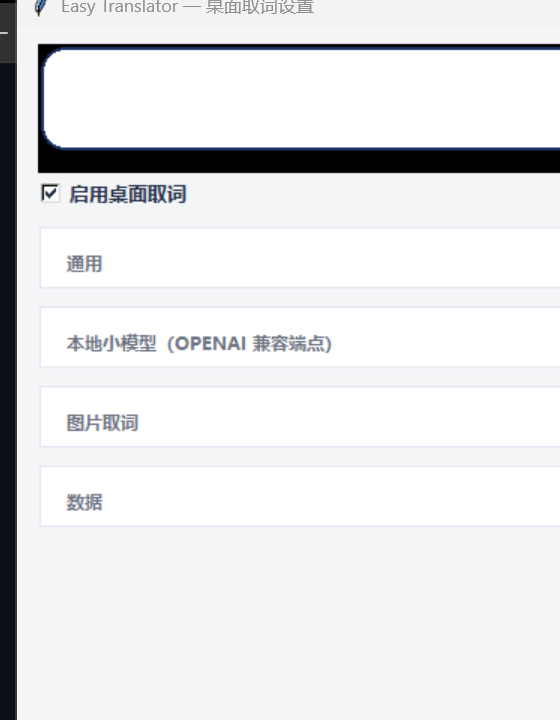
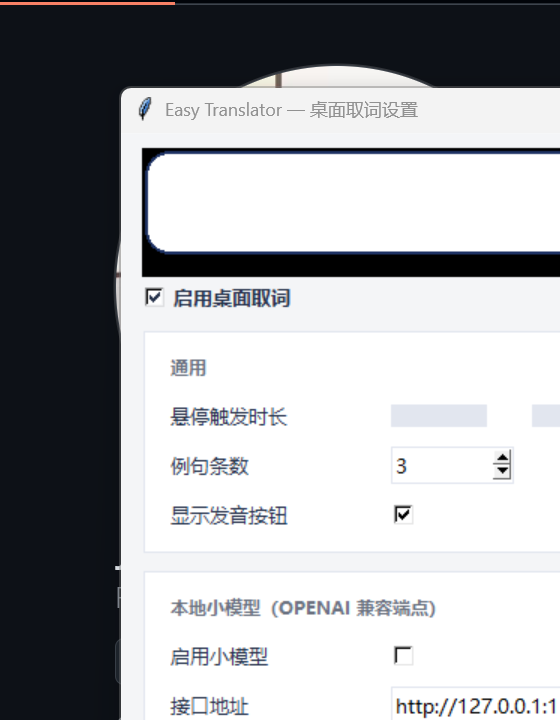
fix(desktop): 设置窗口缺一整张卡（用户报「用不了」）；run.ps1 透传参数
用户：「给我电脑更新到最新版，我怎么用不了」。定位到两个真 bug：

1. **设置窗口最后一张卡的字段根本没显示** —— settings_ui._card() 返回的行容器从未 pack；
   且内容约 850px 高、窗口只有 696px，Tk 的 pack 在分不到空间时**直接不映射控件**
   （不只是"看不见"，是 winfo_ismapped()==False）。表现就是「打开设置、缺一整张卡、用不了」。
   修法：① 行容器补 pack ② 内容区做成可滚动（Canvas + Scrollbar + 滚轮），
   窗口再矮也不丢字段。
2. **run.ps1 不透传参数** —— 只认 --selftest，我文档里承诺的 run.ps1 --settings 被静默丢掉。
   改为 `& $py -m et_desktop @args` 全量透传。

## 测试盲区（这次的教训）

test_window_constructs_with_all_fields 只查了「标签文本存在」，标签在未 pack 的容器里也存在
—— 正好漏掉这种整片字段缺失。已补**可见性断言**（winfo_ismapped 必须为真、字段数 ≥12），
并注意顺序：映射状态要等 update() 之后才准（先遍历会整片报 unmapped，那是测试自己的坑）。
排查中用「祖先链映射状态 + 几何」打到失败细节里，一眼看出是 pack 分不到空间。

验证：desktop/tests/test_settings.py 8/8（15 个字段全部映射）；check:ui 19/19
（设置窗口真机出图 560x720、藏青 468 / 纯白 42170）；桌面单测 14/14、同构 8/8、自检通过。

diff --git a/desktop/tests/test_settings.py b/desktop/tests/test_settings.py
@@ -103,6 +103,38 @@ class TestSettingsWindow(unittest.TestCase):
         for want in ["通用", "本地小模型（OPENAI 兼容端点）", "图片取词", "数据",
                      "悬停触发时长", "例句条数", "接口地址", "文本模型", "视觉模型", "超时（毫秒）"]:
             self.assertTrue(any(want in s for s in labels), f"设置窗口缺少「{want}」")
+
+        # 关键：字段必须**可见**（winfo_ismapped）。只查标签文本会漏掉
+        # 「行容器忘了 pack」——那种情况标签存在但整片字段看不见。
+        # 注意顺序：映射状态要等 update() 之后才准（先遍历会整片报 unmapped）。
+        win.deiconify()
+        win.update_idletasks()
+        win.update()
+        visible = []
+
+        def walk_mapped(w):
+            for c in w.winfo_children():
+                if isinstance(c, (tk.Entry, tk.Checkbutton, tk.Scale, tk.Spinbox)):
+                    visible.append((type(c).__name__, bool(c.winfo_ismapped())))
+                walk_mapped(c)
+        walk_mapped(win)
+        invisible = [t for t, m in visible if not m]
+        self.assertGreaterEqual(len(visible), 12, f"字段控件太少：{visible}")
+
+        def chain(w):
+            out = []
+            while w is not None and str(w) != str(win):
+                try:
+                    out.append(f"{w.winfo_class()}{'M' if w.winfo_ismapped() else 'U'}"
+                               f"[{w.winfo_width()}x{w.winfo_height()}]")
+                except Exception:
+                    break
+                w = w.master
+            return " ← ".join(out)
+        dbg = [chain(c) for c in win.winfo_children()
+               if isinstance(c, tk.Frame)] if invisible else []
+        self.assertEqual([], invisible,
+                         f"这些字段没显示出来（容器忘了 pack？）：{invisible}\n祖先链：{dbg[:3]}")
         win.destroy()
         root.destroy()
 

diff --git a/desktop/et_desktop/settings_ui.py b/desktop/et_desktop/settings_ui.py
@@ -94,10 +94,22 @@ class SettingsWindow(tk.Toplevel if tk else object):
         self.status_lbl.pack(side="right")
 
         # —— 四张卡，与 options/options.html 同序 ——
-        body = tk.Frame(outer, bg=BG)
-        body.pack(fill="both", expand=True)
-        self._cards = tk.Frame(body, bg=BG)
-        self._cards.pack(fill="both", expand=True)
+        # 内容区必须**可滚动**：字段多，窗口不够高时 Tk 的 pack 会给后面的控件
+        # 分不到空间、**直接不映射**（表现为"设置窗口缺一整张卡、用不了"）。
+        canvas = tk.Canvas(outer, bg=BG, highlightthickness=0, bd=0)
+        sb = ttk.Scrollbar(outer, orient="vertical", command=canvas.yview)
+        canvas.configure(yscrollcommand=sb.set)
+        sb.pack(side="right", fill="y")
+        canvas.pack(side="left", fill="both", expand=True)
+        self._cards = tk.Frame(canvas, bg=BG)
+        inner = canvas.create_window((0, 0), window=self._cards, anchor="nw")
+        self._cards.bind("<Configure>", lambda e: canvas.configure(scrollregion=canvas.bbox("all")))
+        canvas.bind("<Configure>", lambda e: canvas.itemconfigure(inner, width=e.width))
+        try:
+            canvas.bind_all("<MouseWheel>",
+                            lambda e: canvas.yview_scroll(-int(e.delta / 120), "units"))
+        except Exception:
+            pass
 
         self._card_general()
         self._card_model()
@@ -168,7 +180,9 @@ class SettingsWindow(tk.Toplevel if tk else object):
         c.pack(fill="x", padx=1, pady=1)
         tk.Label(c, text=title.upper(), bg=CARD, fg=MUTED, font=FONT_H2, anchor="w").pack(
             fill="x", padx=14, pady=(12, 4))
-        return tk.Frame(c, bg=CARD)
+        body = tk.Frame(c, bg=CARD)
+        body.pack(fill="both", expand=True, pady=(0, 8))
+        return body
 
     def _row(self, parent, label):
         row = tk.Frame(parent, bg=CARD)
